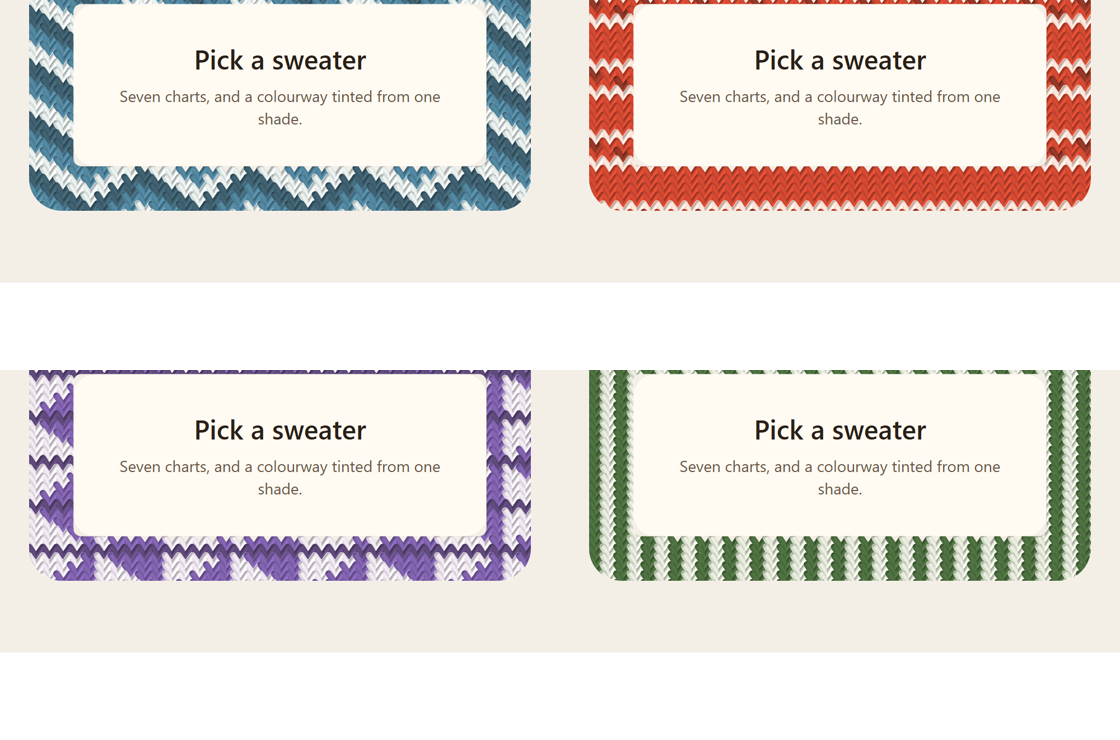
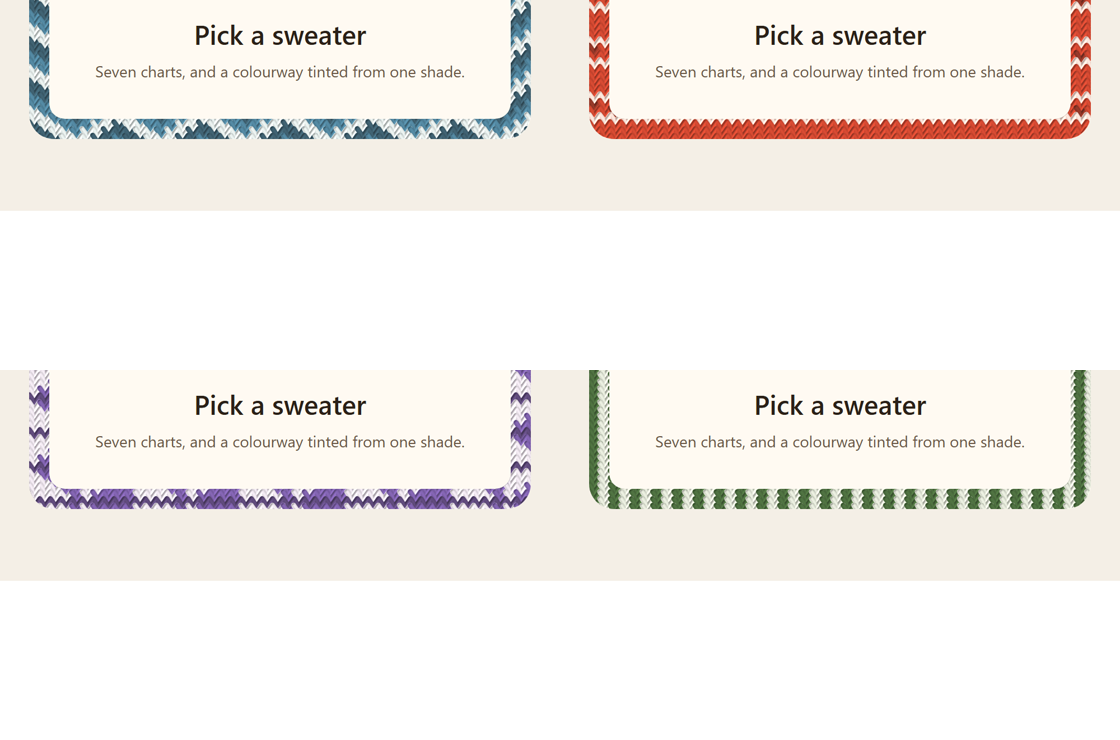
Thin the default trim to 3 stitches at 7px
A 5-stitch band at 9px was a scarf. Three at 7px is about 18px of
knitting, which is the weight of trim the reference puts on a window,
and it reads as a border rather than as a field the content sits in.

diff --git a/components/knitted-frame/knitted-frame.tsx b/components/knitted-frame/knitted-frame.tsx
@@ -246,8 +246,8 @@ const yarnFor = (colors: string[], i: number) =>
 
 export default function KnittedFrame({
   children,
-  stitches = 5,
-  stitchSize = 9,
+  stitches = 3,
+  stitchSize = 7,
   pattern = "chevron",
   yarn,
   tint,

diff --git a/components/knitted-frame/README.md b/components/knitted-frame/README.md
@@ -59,8 +59,8 @@ import KnittedFrame from "@/components/ui/knitted-frame"
 | Prop | Default | Notes |
 |---|---|---|
 | `children` | — | Anything. The frame sizes itself to it. |
-| `stitches` | `5` | Border thickness, in stitches. |
-| `stitchSize` | `9` | Height of one stitch in px. Smaller is finer yarn. |
+| `stitches` | `3` | Border thickness, in stitches. |
+| `stitchSize` | `7` | Height of one stitch in px. Smaller is finer yarn. |
 | `pattern` | `"chevron"` | `chevron` \| `fairisle` \| `argyle` \| `seed` \| `ribbing` \| `stripes` \| `plain`. |
 | `tint` | `"#4e8098"` | **One** colour; the contrasts are derived from it. |
 | `yarn` | — | An explicit colourway, if you want the yarns to clash. Wins over `tint`. |
